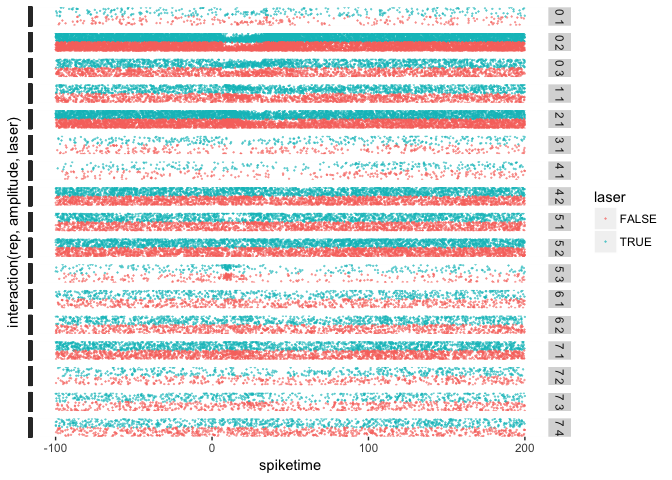
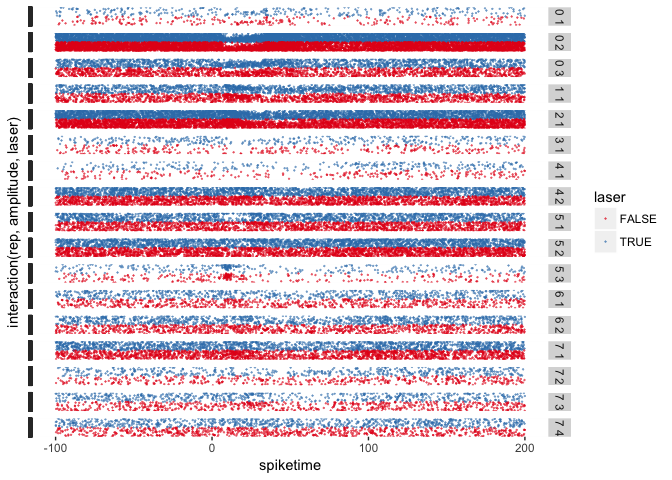
couple tweaks

Changed region(s): [[0.0625, 0.0, 0.7812, 0.9062], [0.5, 0.0, 0.5312, 0.0312]]

diff --git a/R_Crash_Course.md b/R_Crash_Course.md
@@ -312,7 +312,7 @@ Once we have our data in the long format, manipulating it is trivial
                        mean_laser_spikes = mean(n_spikes[laser==TRUE]),
                        mean_nolaser_spikes = mean(n_spikes[laser==FALSE]))
 
-Some examples from my behavior data
+An example from my behavior data
 
     load("/Users/jonny/GitHub/R_crash_course/data/gendat.RData", .GlobalEnv)
 
@@ -397,6 +397,7 @@ the good ole raster
     g.raster_all <- ggplot(laser_data)+
       geom_point(aes(x=spiketime, y=interaction(rep,amplitude,laser), color=laser), size=0.1, alpha=0.5)+
       facet_grid(cell~.)+
+      scale_color_brewer(palette="Set1")+
       theme(axis.text.y = element_blank())
     g.raster_all
 
@@ -453,12 +454,13 @@ the data like this. use summarized (mean) data in that case.)
     # Second level predictors
     laser.lm4 <- lm(n_spikes ~ as.factor(laser) + amplitude + cell, data=rep_spikes) # Multiple regressors
     laser.lm5 <- lm(n_spikes ~ as.factor(laser) * amplitude + cell, data=rep_spikes) # Multiple regressors with interaction
-    laser.lm6 <- lm(n_spikes ~ as.factor(laser) + amplitude * cell, data=rep_spikes)
-    laser.lm7 <- lm(n_spikes ~ as.factor(laser) * amplitude * cell, data=rep_spikes)
+    laser.lm6 <- lm(n_spikes ~ as.factor(laser) * cell + amplitude, data=rep_spikes)
+    laser.lm7 <- lm(n_spikes ~ as.factor(laser) + amplitude * cell, data=rep_spikes)
+    laser.lm8 <- lm(n_spikes ~ as.factor(laser) * amplitude * cell, data=rep_spikes)
 
     # Model comparison
 
-    pander(anova(laser.lm1, laser.lm2, laser.lm3, laser.lm4, laser.lm5, laser.lm6, laser.lm7))
+    pander(anova(laser.lm1, laser.lm2, laser.lm3, laser.lm4, laser.lm5, laser.lm6, laser.lm7, laser.lm8))
 
 <table style="width:78%;">
 <caption>Analysis of Variance Table</caption>
@@ -522,14 +524,22 @@ the data like this. use summarized (mean) data in that case.)
 <td align="center">0.2852</td>
 </tr>
 <tr class="even">
-<td align="center">16293</td>
-<td align="center">68091</td>
-<td align="center">90</td>
-<td align="center">901.5</td>
-<td align="center">2.395</td>
-<td align="center">3.385e-12</td>
+<td align="center">16373</td>
+<td align="center">68948</td>
+<td align="center">10</td>
+<td align="center">44.41</td>
+<td align="center">1.062</td>
+<td align="center">0.388</td>
 </tr>
 <tr class="odd">
+<td align="center">16293</td>
+<td align="center">68091</td>
+<td align="center">80</td>
+<td align="center">857.1</td>
+<td align="center">2.562</td>
+<td align="center">8.159e-13</td>
+</tr>
+<tr class="even">
 <td align="center">16175</td>
 <td align="center">67639</td>
 <td align="center">118</td>
@@ -1005,46 +1015,276 @@ and `glmer` functions
     ## amplitude^5  0.657 -0.524 -0.143  0.231  0.011       
     ## amplitude^6 -0.069  0.048  0.015  0.123 -0.077  0.017
 
-    ranef(laser.glm2)
+    pander(ranef(laser.glm2))
 
-    ## $cell
-    ##     (Intercept)  amplitude.L  amplitude.Q amplitude.C   amplitude^4
-    ## 0 1 -1.60342217  0.167298832  0.036994443 -0.01277981 -0.0173447324
-    ## 0 2  6.83284873 -0.556905153  0.247739432  0.61877784 -0.2110970054
-    ## 0 3  0.05870812 -0.067629132  0.012767397  0.10385512 -0.0193638252
-    ## 1 1 -0.10943224 -0.155312225 -0.428069915 -0.28266193  0.1748126788
-    ## 2 1  3.05107849 -0.657738352 -0.464015875 -0.32493363  0.2960151619
-    ## 3 1 -1.15618378  0.088326970 -0.005509343 -0.02571456  0.0057690844
-    ## 4 1 -1.11189407  0.015817799 -0.104167707 -0.08922725  0.0566734058
-    ## 4 2  0.56104821  0.097264391  0.222377596  0.22032562 -0.1375060462
-    ## 5 1 -0.09395990  0.307959350  0.350813707  0.12119455 -0.1581301595
-    ## 5 2  0.66624809  0.224950923  0.127807932 -0.09270990 -0.0582727474
-    ## 5 3 -1.39396533  0.142451718  0.024067677 -0.04730374  0.0005422835
-    ## 6 1 -1.13322194  0.128801810  0.014353818 -0.03099774 -0.0070332842
-    ## 6 2 -0.87254380  0.051663707 -0.036876724 -0.08518466  0.0362932048
-    ## 7 1 -0.10124796  0.050328342  0.152115311  0.05648254 -0.0396356580
-    ## 7 2 -1.25167280 -0.002554223 -0.091889796 -0.08455215  0.0642785972
-    ## 7 3 -1.12342378  0.098422750 -0.007981844 -0.02897206  0.0028203105
-    ## 7 4 -1.21896387  0.066852493 -0.050526111 -0.01559822  0.0111787315
-    ##     amplitude^5  amplitude^6
-    ## 0 1 -0.12542872  0.024663765
-    ## 0 2  0.56144913  0.013877804
-    ## 0 3  0.04039843  0.029320737
-    ## 1 1  0.09910557  0.008005537
-    ## 2 1  0.29478639 -0.104453283
-    ## 3 1 -0.08075295  0.017515390
-    ## 4 1 -0.05334090  0.014263157
-    ## 4 2  0.01262104  0.022421112
-    ## 5 1 -0.13751381 -0.026309965
-    ## 5 2 -0.06215773 -0.060615021
-    ## 5 3 -0.12027665  0.008658041
-    ## 6 1 -0.09157266  0.013665382
-    ## 6 2 -0.07183775 -0.005166820
-    ## 7 1 -0.06313940 -0.020110063
-    ## 7 2 -0.06717649  0.011355019
-    ## 7 3 -0.07856351  0.017928225
-    ## 7 4 -0.05659999  0.034980984
+    ## Warning in pander.default(ranef(laser.glm2)): No pander.method for
+    ## "ranef.mer", reverting to default.
 
+-   **cell**:
+
+    <table>
+    <caption>Table continues below</caption>
+    <colgroup>
+    <col width="12%" />
+    <col width="17%" />
+    <col width="17%" />
+    <col width="17%" />
+    <col width="17%" />
+    <col width="17%" />
+    </colgroup>
+    <thead>
+    <tr class="header">
+    <th align="center"> </th>
+    <th align="center">(Intercept)</th>
+    <th align="center">amplitude.L</th>
+    <th align="center">amplitude.Q</th>
+    <th align="center">amplitude.C</th>
+    <th align="center">amplitude^4</th>
+    </tr>
+    </thead>
+    <tbody>
+    <tr class="odd">
+    <td align="center"><strong>0 1</strong></td>
+    <td align="center">-1.603</td>
+    <td align="center">0.1673</td>
+    <td align="center">0.03699</td>
+    <td align="center">-0.01278</td>
+    <td align="center">-0.01734</td>
+    </tr>
+    <tr class="even">
+    <td align="center"><strong>0 2</strong></td>
+    <td align="center">6.833</td>
+    <td align="center">-0.5569</td>
+    <td align="center">0.2477</td>
+    <td align="center">0.6188</td>
+    <td align="center">-0.2111</td>
+    </tr>
+    <tr class="odd">
+    <td align="center"><strong>0 3</strong></td>
+    <td align="center">0.05871</td>
+    <td align="center">-0.06763</td>
+    <td align="center">0.01277</td>
+    <td align="center">0.1039</td>
+    <td align="center">-0.01936</td>
+    </tr>
+    <tr class="even">
+    <td align="center"><strong>1 1</strong></td>
+    <td align="center">-0.1094</td>
+    <td align="center">-0.1553</td>
+    <td align="center">-0.4281</td>
+    <td align="center">-0.2827</td>
+    <td align="center">0.1748</td>
+    </tr>
+    <tr class="odd">
+    <td align="center"><strong>2 1</strong></td>
+    <td align="center">3.051</td>
+    <td align="center">-0.6577</td>
+    <td align="center">-0.464</td>
+    <td align="center">-0.3249</td>
+    <td align="center">0.296</td>
+    </tr>
+    <tr class="even">
+    <td align="center"><strong>3 1</strong></td>
+    <td align="center">-1.156</td>
+    <td align="center">0.08833</td>
+    <td align="center">-0.005509</td>
+    <td align="center">-0.02571</td>
+    <td align="center">0.005769</td>
+    </tr>
+    <tr class="odd">
+    <td align="center"><strong>4 1</strong></td>
+    <td align="center">-1.112</td>
+    <td align="center">0.01582</td>
+    <td align="center">-0.1042</td>
+    <td align="center">-0.08923</td>
+    <td align="center">0.05667</td>
+    </tr>
+    <tr class="even">
+    <td align="center"><strong>4 2</strong></td>
+    <td align="center">0.561</td>
+    <td align="center">0.09726</td>
+    <td align="center">0.2224</td>
+    <td align="center">0.2203</td>
+    <td align="center">-0.1375</td>
+    </tr>
+    <tr class="odd">
+    <td align="center"><strong>5 1</strong></td>
+    <td align="center">-0.09396</td>
+    <td align="center">0.308</td>
+    <td align="center">0.3508</td>
+    <td align="center">0.1212</td>
+    <td align="center">-0.1581</td>
+    </tr>
+    <tr class="even">
+    <td align="center"><strong>5 2</strong></td>
+    <td align="center">0.6662</td>
+    <td align="center">0.225</td>
+    <td align="center">0.1278</td>
+    <td align="center">-0.09271</td>
+    <td align="center">-0.05827</td>
+    </tr>
+    <tr class="odd">
+    <td align="center"><strong>5 3</strong></td>
+    <td align="center">-1.394</td>
+    <td align="center">0.1425</td>
+    <td align="center">0.02407</td>
+    <td align="center">-0.0473</td>
+    <td align="center">0.0005423</td>
+    </tr>
+    <tr class="even">
+    <td align="center"><strong>6 1</strong></td>
+    <td align="center">-1.133</td>
+    <td align="center">0.1288</td>
+    <td align="center">0.01435</td>
+    <td align="center">-0.031</td>
+    <td align="center">-0.007033</td>
+    </tr>
+    <tr class="odd">
+    <td align="center"><strong>6 2</strong></td>
+    <td align="center">-0.8725</td>
+    <td align="center">0.05166</td>
+    <td align="center">-0.03688</td>
+    <td align="center">-0.08518</td>
+    <td align="center">0.03629</td>
+    </tr>
+    <tr class="even">
+    <td align="center"><strong>7 1</strong></td>
+    <td align="center">-0.1012</td>
+    <td align="center">0.05033</td>
+    <td align="center">0.1521</td>
+    <td align="center">0.05648</td>
+    <td align="center">-0.03964</td>
+    </tr>
+    <tr class="odd">
+    <td align="center"><strong>7 2</strong></td>
+    <td align="center">-1.252</td>
+    <td align="center">-0.002554</td>
+    <td align="center">-0.09189</td>
+    <td align="center">-0.08455</td>
+    <td align="center">0.06428</td>
+    </tr>
+    <tr class="even">
+    <td align="center"><strong>7 3</strong></td>
+    <td align="center">-1.123</td>
+    <td align="center">0.09842</td>
+    <td align="center">-0.007982</td>
+    <td align="center">-0.02897</td>
+    <td align="center">0.00282</td>
+    </tr>
+    <tr class="odd">
+    <td align="center"><strong>7 4</strong></td>
+    <td align="center">-1.219</td>
+    <td align="center">0.06685</td>
+    <td align="center">-0.05053</td>
+    <td align="center">-0.0156</td>
+    <td align="center">0.01118</td>
+    </tr>
+    </tbody>
+    </table>
+
+    <table style="width:53%;">
+    <colgroup>
+    <col width="13%" />
+    <col width="19%" />
+    <col width="19%" />
+    </colgroup>
+    <thead>
+    <tr class="header">
+    <th align="center"> </th>
+    <th align="center">amplitude^5</th>
+    <th align="center">amplitude^6</th>
+    </tr>
+    </thead>
+    <tbody>
+    <tr class="odd">
+    <td align="center"><strong>0 1</strong></td>
+    <td align="center">-0.1254</td>
+    <td align="center">0.02466</td>
+    </tr>
+    <tr class="even">
+    <td align="center"><strong>0 2</strong></td>
+    <td align="center">0.5614</td>
+    <td align="center">0.01388</td>
+    </tr>
+    <tr class="odd">
+    <td align="center"><strong>0 3</strong></td>
+    <td align="center">0.0404</td>
+    <td align="center">0.02932</td>
+    </tr>
+    <tr class="even">
+    <td align="center"><strong>1 1</strong></td>
+    <td align="center">0.09911</td>
+    <td align="center">0.008006</td>
+    </tr>
+    <tr class="odd">
+    <td align="center"><strong>2 1</strong></td>
+    <td align="center">0.2948</td>
+    <td align="center">-0.1045</td>
+    </tr>
+    <tr class="even">
+    <td align="center"><strong>3 1</strong></td>
+    <td align="center">-0.08075</td>
+    <td align="center">0.01752</td>
+    </tr>
+    <tr class="odd">
+    <td align="center"><strong>4 1</strong></td>
+    <td align="center">-0.05334</td>
+    <td align="center">0.01426</td>
+    </tr>
+    <tr class="even">
+    <td align="center"><strong>4 2</strong></td>
+    <td align="center">0.01262</td>
+    <td align="center">0.02242</td>
+    </tr>
+    <tr class="odd">
+    <td align="center"><strong>5 1</strong></td>
+    <td align="center">-0.1375</td>
+    <td align="center">-0.02631</td>
+    </tr>
+    <tr class="even">
+    <td align="center"><strong>5 2</strong></td>
+    <td align="center">-0.06216</td>
+    <td align="center">-0.06062</td>
+    </tr>
+    <tr class="odd">
+    <td align="center"><strong>5 3</strong></td>
+    <td align="center">-0.1203</td>
+    <td align="center">0.008658</td>
+    </tr>
+    <tr class="even">
+    <td align="center"><strong>6 1</strong></td>
+    <td align="center">-0.09157</td>
+    <td align="center">0.01367</td>
+    </tr>
+    <tr class="odd">
+    <td align="center"><strong>6 2</strong></td>
+    <td align="center">-0.07184</td>
+    <td align="center">-0.005167</td>
+    </tr>
+    <tr class="even">
+    <td align="center"><strong>7 1</strong></td>
+    <td align="center">-0.06314</td>
+    <td align="center">-0.02011</td>
+    </tr>
+    <tr class="odd">
+    <td align="center"><strong>7 2</strong></td>
+    <td align="center">-0.06718</td>
+    <td align="center">0.01136</td>
+    </tr>
+    <tr class="even">
+    <td align="center"><strong>7 3</strong></td>
+    <td align="center">-0.07856</td>
+    <td align="center">0.01793</td>
+    </tr>
+    <tr class="odd">
+    <td align="center"><strong>7 4</strong></td>
+    <td align="center">-0.0566</td>
+    <td align="center">0.03498</td>
+    </tr>
+    </tbody>
+    </table>
+
+<!-- end of list -->
 Or with the behavior data
 
     # Interaction model - effect of gentype2 allowed to vary by mouse, allow correlation between intercept devs (estimate correlation between intercept devs and gentype devs across mice)
